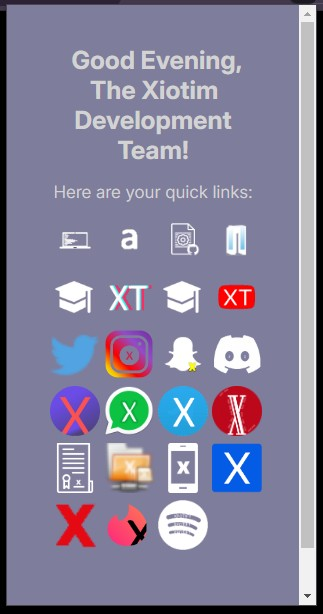
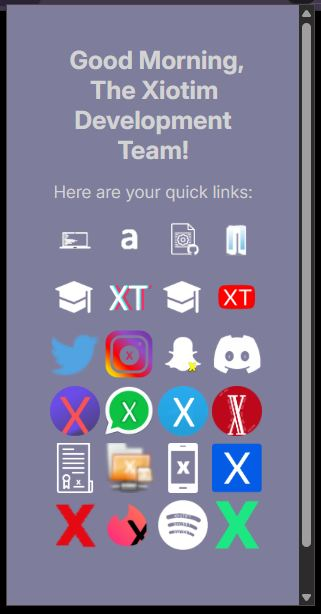
Something new. Coming Soon.
It's called Xulu. It is coming soon, as hinted in the posts.

diff --git a/Unpacked/xLinks/index.html b/Unpacked/xLinks/index.html
@@ -120,7 +120,7 @@
                     <a href="https://raw.githubusercontent.com/l-xdt/l-xdt/refs/heads/main/README.md" target="_blank"><img src="https://imgur.com/5yLByzP.png"></a>
                 </th>                
                 <th>
-                    <a href="http://l-xdt.github.io/no-hesi/" target="_blank"><img src="https://i.imgur.com/JtKzp3F.png"></a>
+                    <a href="https://l-xdt.github.io/no-hesi/" target="_blank"><img src="https://i.imgur.com/JtKzp3F.png"></a>
                 </th>
                 </tr>
                 <tr>
@@ -186,10 +186,13 @@
 									</th>
 
         <th>
-           <a href="http://l-xdt.github.io/xinder/" target="_blank"><img src="https://i.imgur.com/srht9BE.png"></a>
+           <a href="https://l-xdt.github.io/xinder/" target="_blank"><img src="https://i.imgur.com/srht9BE.png"></a>
        </th>
        <th>
-        <a href="http://l-xdt.github.io/xpotify/" target="_blank"><img src="https://i.imgur.com/cCNacDB.png"></a>
+        <a href="https://l-xdt.github.io/xpotify/" target="_blank"><img src="https://i.imgur.com/cCNacDB.png"></a>
+    </th>       
+    <th>
+        <a href="https://l-xdt.github.io/xulu/" target="_blank"><img src="https://imgur.com/UEhoaNV.png"></a>
     </th>
 </tr>
 
